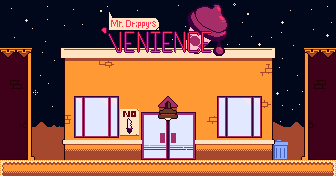
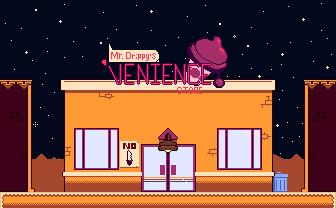
bg

diff --git a/levels/CrimeDragonLand.js b/levels/CrimeDragonLand.js
@@ -8,11 +8,11 @@
  if(typeof module === 'object' && module && module.exports) {
   module.exports = data;
  }})("CrimeDragonLand",
-{ "height":11,
+{ "height":13,
  "layers":[
         {
-         "data":[14, 14, 14, 14, 14, 14, 14, 14, 14, 14, 14, 14, 14, 14, 14, 14, 14, 14, 14, 14, 14, 14, 14, 14, 14, 14, 14, 14, 14, 14, 14, 14, 14, 14, 14, 14, 14, 14, 14, 14, 14, 14, 14, 14, 14, 14, 14, 14, 14, 14, 14, 14, 14, 14, 14, 14, 14, 14, 14, 14, 14, 14, 14, 14, 14, 14, 14, 14, 14, 14, 14, 14, 14, 14, 14, 14, 14, 14, 14, 14, 14, 14, 14, 14, 16, 17, 16, 17, 16, 17, 16, 17, 16, 17, 16, 17, 16, 17, 16, 17, 16, 17, 16, 17, 16, 15, 15, 15, 15, 15, 15, 15, 15, 15, 15, 15, 15, 15, 15, 15, 15, 15, 15, 15, 15, 15, 15, 15, 15, 15, 15, 15, 15, 15, 15, 15, 15, 15, 15, 15, 15, 15, 15, 15, 15, 15, 15, 15, 15, 15, 15, 15, 15, 15, 15, 15, 15, 15, 15, 15, 15, 15, 15, 15, 15, 15, 15, 15, 15, 15, 15, 15, 15, 15, 15, 15, 15, 15, 15, 15, 15, 15, 15, 15, 15, 15, 15, 15, 15, 15, 15, 15, 15, 15, 15, 15, 15, 15, 15, 15, 15, 15, 15, 15, 15, 15, 15, 15, 15, 15, 15, 15, 15, 15, 15, 15, 15, 15, 15, 15, 15, 15, 15, 15, 15, 15, 15, 15, 15, 15, 15],
-         "height":11,
+         "data":[0, 0, 0, 0, 0, 0, 0, 0, 0, 0, 0, 0, 0, 0, 0, 0, 0, 0, 0, 0, 0, 0, 0, 0, 0, 0, 0, 0, 0, 0, 0, 0, 0, 0, 0, 0, 0, 0, 0, 0, 0, 0, 14, 14, 14, 14, 14, 14, 14, 14, 14, 14, 14, 14, 14, 14, 14, 14, 14, 14, 14, 14, 14, 14, 14, 14, 14, 14, 14, 14, 14, 14, 14, 14, 14, 14, 14, 14, 14, 14, 14, 14, 14, 14, 14, 14, 14, 14, 14, 14, 14, 14, 14, 14, 14, 14, 14, 14, 14, 14, 14, 14, 14, 14, 14, 14, 14, 14, 14, 14, 14, 14, 14, 14, 14, 14, 14, 14, 14, 14, 14, 14, 14, 14, 14, 14, 16, 17, 16, 17, 16, 17, 16, 17, 16, 17, 16, 17, 16, 17, 16, 17, 16, 17, 16, 17, 16, 15, 15, 15, 15, 15, 15, 15, 15, 15, 15, 15, 15, 15, 15, 15, 15, 15, 15, 15, 15, 15, 15, 15, 15, 15, 15, 15, 15, 15, 15, 15, 15, 15, 15, 15, 15, 15, 15, 15, 15, 15, 15, 15, 15, 15, 15, 15, 15, 15, 15, 15, 15, 15, 15, 15, 15, 15, 15, 15, 15, 15, 15, 15, 15, 15, 15, 15, 15, 15, 15, 15, 15, 15, 15, 15, 15, 15, 15, 15, 15, 15, 15, 15, 15, 15, 15, 15, 15, 15, 15, 15, 15, 15, 15, 15, 15, 15, 15, 15, 15, 15, 15, 15, 15, 15, 15, 15, 15, 15, 15, 15, 15, 15, 15, 15, 15, 15, 15, 15, 15, 15, 15, 15, 15, 15, 15],
+         "height":13,
          "name":"Background2",
          "opacity":1,
          "type":"tilelayer",
@@ -22,8 +22,8 @@
          "y":0
         }, 
         {
-         "data":[0, 0, 0, 0, 0, 0, 0, 0, 0, 0, 0, 0, 0, 0, 0, 0, 0, 0, 0, 0, 0, 0, 0, 0, 0, 0, 0, 29, 30, 0, 0, 0, 0, 0, 0, 0, 0, 0, 0, 0, 0, 0, 0, 0, 0, 0, 0, 0, 0, 0, 0, 0, 0, 0, 0, 0, 0, 0, 0, 0, 0, 0, 0, 0, 0, 0, 0, 0, 0, 0, 0, 0, 0, 0, 0, 0, 0, 0, 0, 0, 0, 0, 0, 0, 0, 0, 0, 0, 0, 0, 0, 0, 0, 0, 0, 0, 0, 0, 0, 0, 0, 0, 0, 0, 0, 0, 0, 0, 0, 0, 0, 0, 0, 0, 0, 0, 0, 0, 0, 0, 0, 0, 0, 0, 0, 0, 0, 0, 0, 0, 0, 0, 0, 0, 0, 0, 0, 0, 0, 0, 0, 0, 0, 0, 0, 0, 0, 0, 0, 0, 0, 0, 0, 0, 0, 0, 0, 0, 0, 0, 0, 0, 0, 0, 0, 0, 0, 0, 0, 0, 0, 0, 0, 0, 0, 0, 0, 0, 0, 0, 0, 0, 0, 0, 0, 0, 0, 0, 0, 0, 0, 0, 0, 0, 0, 0, 0, 0, 0, 0, 0, 0, 0, 0, 0, 0, 0, 0, 0, 0, 0, 0, 0, 0, 0, 0, 0, 0, 0, 0, 0, 0, 0, 0, 0, 0, 0, 0, 0, 0, 0],
-         "height":11,
+         "data":[0, 0, 0, 0, 0, 0, 0, 0, 0, 0, 0, 0, 0, 0, 0, 0, 0, 0, 0, 0, 0, 0, 0, 0, 0, 0, 0, 0, 0, 0, 0, 0, 0, 0, 0, 0, 0, 0, 0, 0, 0, 0, 0, 0, 0, 0, 0, 0, 0, 0, 0, 0, 0, 0, 0, 0, 0, 0, 0, 0, 0, 0, 0, 0, 0, 0, 0, 0, 0, 29, 30, 0, 0, 0, 0, 0, 0, 0, 0, 0, 0, 0, 0, 0, 0, 0, 0, 0, 0, 0, 0, 0, 0, 0, 0, 0, 0, 0, 0, 0, 0, 0, 0, 0, 0, 0, 0, 0, 0, 0, 0, 0, 0, 0, 0, 0, 0, 0, 0, 0, 0, 0, 0, 0, 0, 0, 0, 0, 0, 0, 0, 0, 0, 0, 0, 0, 0, 0, 0, 0, 0, 0, 0, 0, 0, 0, 0, 0, 0, 0, 0, 0, 0, 0, 0, 0, 0, 0, 0, 0, 0, 0, 0, 0, 0, 0, 0, 0, 0, 0, 0, 0, 0, 0, 0, 0, 0, 0, 0, 0, 0, 0, 0, 0, 0, 0, 0, 0, 0, 0, 0, 0, 0, 0, 0, 0, 0, 0, 0, 0, 0, 0, 0, 0, 0, 0, 0, 0, 0, 0, 0, 0, 0, 0, 0, 0, 0, 0, 0, 0, 0, 0, 0, 0, 0, 0, 0, 0, 0, 0, 0, 0, 0, 0, 0, 0, 0, 0, 0, 0, 0, 0, 0, 0, 0, 0, 0, 0, 0, 0, 0, 0, 0, 0, 0, 0, 0, 0, 0, 0, 0, 0, 0, 0, 0, 0, 0, 0, 0, 0, 0, 0, 0],
+         "height":13,
          "name":"Background1",
          "opacity":1,
          "type":"tilelayer",
@@ -33,8 +33,8 @@
          "y":0
         }, 
         {
-         "data":[0, 0, 0, 0, 0, 0, 0, 0, 0, 0, 0, 0, 0, 0, 0, 0, 0, 0, 0, 0, 0, 0, 0, 0, 0, 0, 0, 0, 0, 0, 0, 0, 0, 0, 0, 0, 0, 0, 0, 0, 0, 0, 0, 0, 0, 0, 0, 0, 0, 0, 0, 0, 0, 0, 0, 0, 0, 0, 0, 0, 0, 0, 0, 0, 0, 0, 0, 0, 0, 0, 0, 0, 0, 0, 0, 0, 0, 0, 0, 0, 0, 0, 0, 0, 0, 0, 0, 0, 0, 0, 0, 0, 0, 0, 0, 0, 0, 0, 0, 0, 0, 0, 0, 0, 0, 0, 0, 0, 0, 0, 0, 0, 0, 0, 0, 0, 0, 0, 0, 0, 0, 0, 0, 0, 0, 0, 0, 0, 0, 0, 0, 0, 0, 0, 0, 0, 0, 0, 0, 0, 0, 0, 0, 0, 0, 0, 0, 0, 0, 0, 0, 0, 0, 0, 0, 0, 0, 0, 0, 0, 0, 0, 0, 0, 0, 0, 0, 0, 0, 0, 0, 0, 0, 0, 0, 0, 0, 0, 0, 0, 0, 0, 0, 0, 0, 0, 0, 0, 0, 0, 0, 0, 0, 0, 0, 0, 0, 0, 0, 0, 0, 0, 0, 0, 0, 0, 0, 0, 0, 0, 2, 2, 2, 2, 2, 2, 2, 2, 2, 2, 2, 2, 2, 2, 2, 2, 2, 2, 2, 2, 2],
-         "height":11,
+         "data":[0, 0, 0, 0, 0, 0, 0, 0, 0, 0, 0, 0, 0, 0, 0, 0, 0, 0, 0, 0, 0, 0, 0, 0, 0, 0, 0, 0, 0, 0, 0, 0, 0, 0, 0, 0, 0, 0, 0, 0, 0, 0, 0, 0, 0, 0, 0, 0, 0, 0, 0, 0, 0, 0, 0, 0, 0, 0, 0, 0, 0, 0, 0, 0, 0, 0, 0, 0, 0, 0, 0, 0, 0, 0, 0, 0, 0, 0, 0, 0, 0, 0, 0, 0, 0, 0, 0, 0, 0, 0, 0, 0, 0, 0, 0, 0, 0, 0, 0, 0, 0, 0, 0, 0, 0, 0, 0, 0, 0, 0, 0, 0, 0, 0, 0, 0, 0, 0, 0, 0, 0, 0, 0, 0, 0, 0, 0, 0, 0, 0, 0, 0, 0, 0, 0, 0, 0, 0, 0, 0, 0, 0, 0, 0, 0, 0, 0, 0, 0, 0, 0, 0, 0, 0, 0, 0, 0, 0, 0, 0, 0, 0, 0, 0, 0, 0, 0, 0, 0, 0, 0, 0, 0, 0, 0, 0, 0, 0, 0, 0, 0, 0, 0, 0, 0, 0, 0, 0, 0, 0, 0, 0, 0, 0, 0, 0, 0, 0, 0, 0, 0, 0, 0, 0, 0, 0, 0, 0, 0, 0, 0, 0, 0, 0, 0, 0, 0, 0, 0, 0, 0, 0, 0, 0, 0, 0, 0, 0, 0, 0, 0, 0, 0, 0, 0, 0, 0, 0, 0, 0, 0, 0, 0, 0, 0, 0, 0, 0, 0, 0, 0, 0, 2, 2, 2, 2, 2, 2, 2, 2, 2, 2, 2, 2, 2, 2, 2, 2, 2, 2, 2, 2, 2],
+         "height":13,
          "name":"Main",
          "opacity":1,
          "type":"tilelayer",
@@ -44,8 +44,8 @@
          "y":0
         }, 
         {
-         "data":[0, 0, 0, 0, 0, 0, 0, 0, 0, 0, 0, 0, 0, 0, 0, 0, 0, 0, 0, 0, 0, 0, 0, 0, 0, 0, 0, 0, 0, 0, 0, 0, 0, 0, 0, 0, 0, 0, 0, 0, 0, 0, 0, 0, 0, 0, 0, 0, 0, 0, 0, 0, 0, 0, 0, 0, 0, 0, 0, 0, 0, 0, 0, 0, 0, 0, 0, 0, 0, 0, 0, 0, 0, 0, 0, 0, 0, 0, 0, 0, 0, 0, 0, 0, 0, 0, 0, 0, 0, 0, 0, 0, 0, 0, 0, 0, 0, 0, 0, 0, 0, 0, 0, 0, 0, 0, 0, 0, 0, 0, 0, 0, 0, 0, 0, 0, 0, 0, 0, 0, 0, 0, 0, 0, 0, 0, 0, 0, 0, 0, 0, 0, 0, 0, 0, 0, 0, 0, 0, 0, 0, 0, 0, 0, 0, 0, 0, 0, 0, 0, 0, 0, 0, 0, 0, 0, 0, 0, 0, 0, 0, 0, 0, 0, 0, 0, 0, 0, 0, 0, 0, 0, 0, 0, 0, 0, 0, 0, 0, 0, 0, 0, 0, 0, 0, 0, 0, 0, 0, 0, 0, 0, 0, 0, 0, 0, 0, 0, 0, 0, 0, 0, 0, 0, 0, 0, 0, 0, 0, 0, 0, 0, 0, 0, 0, 0, 0, 0, 0, 0, 0, 0, 0, 0, 0, 0, 0, 0, 0, 0, 0],
-         "height":11,
+         "data":[0, 0, 0, 0, 0, 0, 0, 0, 0, 0, 0, 0, 0, 0, 0, 0, 0, 0, 0, 0, 0, 0, 0, 0, 0, 0, 0, 0, 0, 0, 0, 0, 0, 0, 0, 0, 0, 0, 0, 0, 0, 0, 0, 0, 0, 0, 0, 0, 0, 0, 0, 0, 0, 0, 0, 0, 0, 0, 0, 0, 0, 0, 0, 0, 0, 0, 0, 0, 0, 0, 0, 0, 0, 0, 0, 0, 0, 0, 0, 0, 0, 0, 0, 0, 0, 0, 0, 0, 0, 0, 0, 0, 0, 0, 0, 0, 0, 0, 0, 0, 0, 0, 0, 0, 0, 0, 0, 0, 0, 0, 0, 0, 0, 0, 0, 0, 0, 0, 0, 0, 0, 0, 0, 0, 0, 0, 0, 0, 0, 0, 0, 0, 0, 0, 0, 0, 0, 0, 0, 0, 0, 0, 0, 0, 0, 0, 0, 0, 0, 0, 0, 0, 0, 0, 0, 0, 0, 0, 0, 0, 0, 0, 0, 0, 0, 0, 0, 0, 0, 0, 0, 0, 0, 0, 0, 0, 0, 0, 0, 0, 0, 0, 0, 0, 0, 0, 0, 0, 0, 0, 0, 0, 0, 0, 0, 0, 0, 0, 0, 0, 0, 0, 0, 0, 0, 0, 0, 0, 0, 0, 0, 0, 0, 0, 0, 0, 0, 0, 0, 0, 0, 0, 0, 0, 0, 0, 0, 0, 0, 0, 0, 0, 0, 0, 0, 0, 0, 0, 0, 0, 0, 0, 0, 0, 0, 0, 0, 0, 0, 0, 0, 0, 0, 0, 0, 0, 0, 0, 0, 0, 0, 0, 0, 0, 0, 0, 0, 0, 0, 0, 0, 0, 0],
+         "height":13,
          "name":"Foreground",
          "opacity":1,
          "type":"tilelayer",

diff --git a/main.js b/main.js
@@ -1,5 +1,5 @@
 var logicalWidth = 336;
-var logicalHeight = 176;
+var logicalHeight = 208;
 
 var renderer = null;
 var stage = null;
@@ -226,7 +226,7 @@ function init() {
   renderer = PIXI.autoDetectRenderer(logicalWidth, logicalHeight, {
     roundPixels: true,
     resolution: window.devicePixelRatio || 1,
-    backgroundColor: 0x35211a,
+    backgroundColor: 0x240106,
   });
   renderer.view.id = 'pixi-canvas';
   

diff --git a/index.html b/index.html
@@ -15,7 +15,7 @@
             padding: 0;
             margin: 0;
 
-            background-color: #35211a;
+            background-color: #240106;
         }
 
         canvas {
